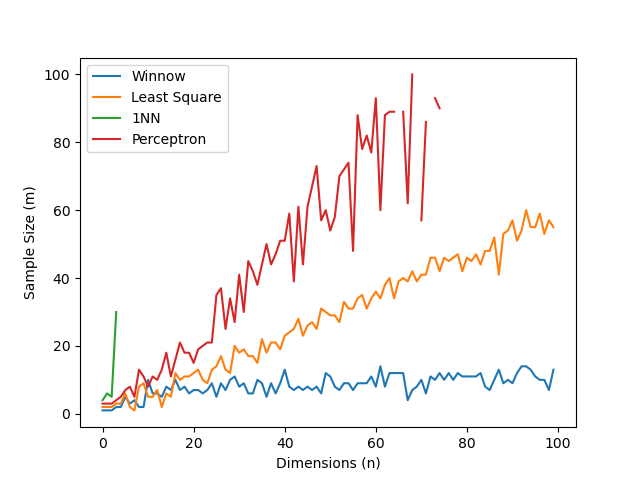
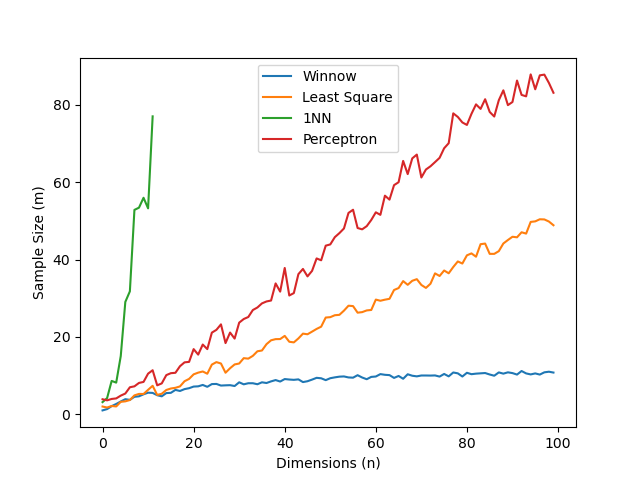
fix: approx the expectation of generalisation error

diff --git a/part-3-library.py b/part-3-library.py
@@ -168,55 +168,60 @@ def train_test_split(data):
 
 models = np.array([Winnow(), LeastSquare(), OneNearestNeighbor(), Perceptron()])
 
-M = np.empty((len(models), 100)) # create an array to store the errors by dimension.
-M[:] = np.nan
+M = np.zeros((len(models), 100)) # create an array to store the errors by dimension.
+E_S = 50
 
 for n in range(1, 101):
 
     generalization_error = float('inf') # initialize the generalization error.
 
-    m = 1 # initialize the number of samples.
-
     # Approximate 2^n by maclaurin expansion up to x^2.
     # MC: We use this to sample the population \mathcal{X} to approximate expectation
     # TODO analyse the bias and try to incorporate importance weighting.
     N = int(n * np.log(2))
-    L = int(1 + N + N * N / 4)
-    masked = np.zeros(len(models), dtype=bool)
+    L = int(1 + N)
 
     print("RUNNING: n = %0.3d / 100"%(n), end='\r')
 
-    while m <= 100:
+    cnts = np.zeros((len(models)))
 
-        # No need for train test spilt, as we have direct access to D
-        # we can simply drawn from D for any novel test points.
-        X_test, y_test = sample_data(L, n)
-        X, y = sample_data(m, n) # sample S_m
+    for _ in range(E_S):
+        masked = np.zeros(len(models), dtype=bool)
+        m = 1
+        while m <= 100:
 
-        # no need to proceed no classifier is pending
-        if np.prod(masked) == 1:
-            break
-            
-        for i, model in enumerate(models):
-            if masked[i]:
-                continue
+            # No need for train test spilt, as we have direct access to D
+            # we can simply drawn from D for any novel test points.
+            X_test, y_test = sample_data(L, n)
+            X, y = sample_data(m, n) # sample S_m
 
-            model.fit(X, y)
-
-            y_pred = model.pred(X_test) # predict the labels using the winnow algorithm.
-
-            generalization_error = mistake(y_pred, y_test) # calculate the generalization error.
-
-            if generalization_error <= 0.1: # if the generalization error is less than or equal to 0.1, allocate the value to the array.
-                
-                # mark this classifier as ok
-                masked[i] = True
-                M[i, n - 1] = m # store the generalization error.
-
+            # no need to proceed no classifier is pending
+            if np.prod(masked) == 1:
                 break
-            
-        m += 1 # increment the number of samples.
+                
+            for i, model in enumerate(models):
+                if masked[i]:
+                    continue
+
+                model.fit(X, y)
+
+                y_pred = model.pred(X_test) # predict the labels using the winnow algorithm.
+
+                generalization_error = mistake(y_pred, y_test) # calculate the generalization error.
+
+                if generalization_error <= 0.1: # if the generalization error is less than or equal to 0.1, allocate the value to the array.
+                    
+                    # mark this classifier as ok
+                    masked[i] = True
+                    M[i, n - 1] += m # store the generalization error.
+                    cnts[i] += 1
+                    break
+                
+            m += 1 # increment the number of samples.
+    M[:, n - 1] /= np.maximum(cnts, 1)
 print()
+
+M[M == 0] = np.nan
 
 for i in range(M.shape[0]):
     model = models[i]
